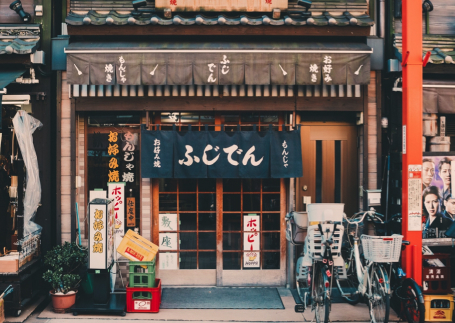
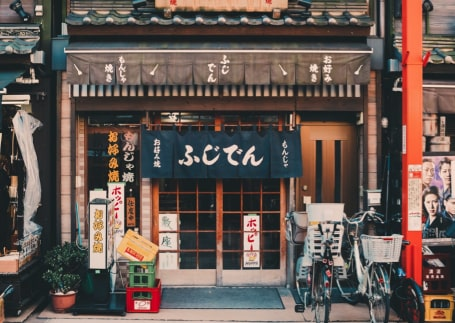
minimizing photo and adding  some JS

diff --git a/index.html b/index.html
@@ -4,6 +4,7 @@
     <meta charset="UTF-8">
     <meta name="viewport" content="width=device-width, initial-scale=1.0">
     <title>Discover Amazing places in Japan</title>
+    <meta name="description" content="">
     <link rel="stylesheet" href="./css/style.css">
 </head>
 <body>
@@ -13,23 +14,23 @@
             <div class="header__wrapper">
                 <div class="header__logo">
                     <a href="/" class="header__logo-link">
-                        <img src="./img/odigo-logo.svg" alt="Discover Amazing places in Japan" class="header__logo-pic">
+                        <img src="./img/svg/odigo-logo.svg" alt="Discover Amazing places in Japan" class="header__logo-pic">
                     </a>
                 </div>
 
                 <nav class="header__nav">
                     <ul class="header__list">
                         <li class="header__item">
-                            <a href="#!" class="header__link">Articles</a>
+                            <a href="#articles" class="header__link js-scroll">Articles</a>
                         </li>
                         <li class="header__item">
-                            <a href="#!" class="header__link">Locations</a>
+                            <a href="#locations" class="header__link js-scroll">Locations</a>
                         </li>
                         <li class="header__item">
-                            <a href="#!" class="header__link">Videos</a>
+                            <a href="#videos" class="header__link js-scroll">Videos</a>
                         </li>
                         <li class="header__item">
-                            <a href="#!" class="header__link">Sign in</a>
+                            <a href="#sign-in" class="header__link js-scroll">Sign in</a>
                         </li>
                     </ul>
                     
@@ -53,7 +54,7 @@
 
 <!--Intro start-->
     <main class="main">
-        <section class="intro">
+        <section class="intro" id='sign-in'>
             <div class="wrapper">
                 <h1 class="intro__title">Discover Amazing places in Japan</h1>
                 <p class="intro__subtitle">
@@ -79,7 +80,7 @@
                 <div class="benefits__cards">
                     <div class="benefits__card">
                         <div class="benafit__cards-pic">
-                            <img src="./img/church-icon.svg" alt="Welcome to Odigo!" class="benafits__card-thumb">
+                            <img src="./img/svg/church-icon.svg" alt="Welcome to Odigo!" class="benafits__card-thumb">
                         </div>
                         <h3 class="benafits__card-title">
                             Welcome to Odigo!
@@ -93,7 +94,7 @@
                     </div>
                     <div class="benefits__card">
                         <div class="benafit__cards-pic">
-                            <img src="./img/person-icon.svg" alt="Your Personal Japan Guide" class="benafits__card-thumb">
+                            <img src="./img/svg/person-icon.svg" alt="Your Personal Japan Guide" class="benafits__card-thumb">
                         </div>
                         <h3 class="benafits__card-title">
                             Your Personal Japan Guide
@@ -107,7 +108,7 @@
                     </div>
                     <div class="benefits__card">
                         <div class="benafit__cards-pic">
-                            <img src="./img/building-icon.svg" alt="Promoting Local Businesses" class="benafits__card-thumb">
+                            <img src="./img/svg/building-icon.svg" alt="Promoting Local Businesses" class="benafits__card-thumb">
                         </div>
                         <h3 class="benafits__card-title">
                             Promoting Local Businesses
@@ -181,7 +182,7 @@
     <!--Places end-->
 
     <!--Tours start-->
-        <div class="tours">
+        <div class="tours" id="articles">
             <div class="wrapper-full">
                 
                 <div class="tours__tour tour">
@@ -217,7 +218,7 @@
     <!--Tours end-->
     
     <!--Top start-->
-        <section class="top">
+        <section class="top" id='locations'>
             <div class="wrapper-full">
                 <h2 class="top__title section-title">
                     Today top places to visit
@@ -356,10 +357,10 @@
 
     <!--Videos start-->
 
-        <div class="videos">
+        <div class="videos" id='videos'>
             <div class="videos__wrapper">
                 <div class="video__item"></div>
-                <iframe class="video__element" src="https://www.youtube.com/embed/00ZXaXIABMY" frameborder="0" allow="accelerometer; autoplay; clipboard-write; encrypted-media; gyroscope; picture-in-picture" allowfullscreen></iframe>
+                <iframe class="video__element" src="https://www.youtube.com/embed/00ZXaXIABMY"  allow="accelerometer; autoplay; clipboard-write; encrypted-media; gyroscope; picture-in-picture" allowfullscreen></iframe>
             </div>
         </div>
     <!--Videos end-->
@@ -368,7 +369,7 @@
         <div class="wrapper">
             <div class="footer__item">
                 <div class="footer__logo">
-                    <img src="./img/odigo-logo-footer.svg" alt="Odigo" class="footer__logo-pic">
+                    <img src="./img/svg/odigo-logo-footer.svg" alt="Odigo" class="footer__logo-pic">
                 </div>
                 <nav class="footer__nav">
                     <ul class="footer__menu">

diff --git a/js/main.js b/js/main.js
@@ -11,10 +11,13 @@
     }
 }())
 
-(function(){
+//Burger handler
+(function () {
+
     const burgerItem = document.querySelector('.burger')
     const menu = document.querySelector('.header__nav')
     const menuCloseItem = document.querySelector('.header__nav-close')
+    const menuLinks = document.querySelectorAll('.header__link')
 
     burgerItem.addEventListener('click', () => {
         menu.classList.add('header__nav-active')
@@ -23,4 +26,50 @@
     menuCloseItem.addEventListener('click', () => {
         menu.classList.remove('header__nav-active')
     })
-}())
+    if(window.innerWidth <= 767) {
+        for(let i = 0; i < menuLinks.length; i+= 1){
+            menuLinks[i].addEventListener('click', () =>{
+                menu.classList.remove('header__nav-active')
+            })
+        }
+    }
+
+
+// Scroll to anchors
+    const smoothScroll = function (targetEl, duration) {
+        const headerElHeight =  document.querySelector('.header').clientHeight;
+        let target = document.querySelector(targetEl);
+        let targetPosition = target.getBoundingClientRect().top - headerElHeight;
+        let startPosition = window.pageYOffset;
+        let startTime = null;
+    
+        const ease = function(t,b,c,d) {
+            t /= d / 2;
+            if (t < 1) return c / 2 * t * t + b;
+            t--;
+            return -c / 2 * (t * (t - 2) - 1) + b;
+        };
+    
+        const animation = function(currentTime){
+            if (startTime === null) startTime = currentTime;
+            const timeElapsed = currentTime - startTime;
+            const run = ease(timeElapsed, startPosition, targetPosition, duration);
+            window.scrollTo(0,run);
+            if (timeElapsed < duration) requestAnimationFrame(animation);
+        };
+        requestAnimationFrame(animation);
+
+    };
+
+    const scrollTo = function () {
+        const links = document.querySelectorAll('.js-scroll');
+        links.forEach(each => {
+            each.addEventListener('click', function () {
+                const currentTarget = this.getAttribute('href');
+                smoothScroll(currentTarget, 1000);
+            });
+        });
+    };
+    scrollTo();
+
+}());

diff --git a/css/style.css b/css/style.css
@@ -521,7 +521,7 @@ body{
 
 .intro{
     min-height: 100vh;
-    background: url(../img/intro-bg.png) no-repeat center;
+    background: url(../img/intro-bg-min.png) no-repeat center;
     background-size: cover;
     padding-top: 263px;
     padding-bottom: 223px;
@@ -653,12 +653,12 @@ body{
     line-height: 24px;
     color: #006DFE;
     text-decoration: none;
-    background: url(../img/arrow-right-icon.svg) no-repeat 95% center;
+    background: url(../img/svg/arrow-right-icon.svg) no-repeat 95% center;
     transition: .2s all;
 }
 
 .benafits__card-more:hover, .benafits__card-more:focus{
-    background: url(../img/arrow-right-icon.svg) no-repeat right center;
+    background: url(../img/svg/arrow-right-icon.svg) no-repeat right center;
 }
 /*Benefits styles end*/
 
@@ -686,7 +686,7 @@ body{
     color: #006DFE;
     text-decoration: none;
     padding-right: 59px;
-    background: url(../img/arrow-right-icon.svg) no-repeat right center;
+    background: url(../img/svg/arrow-right-icon.svg) no-repeat right center;
 }
 
 .places__view-all:hover, .places__view-all:focus{
@@ -696,7 +696,7 @@ body{
 .places__cards{
     display: grid;
     grid-template-columns: repeat(6, 1fr);
-    grid-gap: 10px;
+    gap: 10px;
 }
 
 .places__card{
@@ -774,7 +774,7 @@ body{
 .tours__tour {
     display: grid;
     grid-template-columns: repeat(2, 1fr);
-    grid-gap: 0 108px;
+    gap: 0 108px;
     align-items: center;
     margin-bottom: 77px;
 }
@@ -824,7 +824,7 @@ body{
 .top__cards{
     display: grid;
     grid-template-columns: repeat(6, 1fr);
-    grid-gap: 57px;
+    gap: 57px;
 }
 
 .top__card{
@@ -1002,7 +1002,7 @@ body{
         margin-bottom: 15px;
     }
     .tours__tour{
-        grid-gap: 0 35px;
+        gap: 0 35px;
     }
     .tour__desc{
         margin-bottom: 15px;
@@ -1111,7 +1111,7 @@ body{
     }
     .search-form__field{
         font-size: 14px;
-        background: transparent url(../img/circle-icon.svg) no-repeat left 2px;
+        background: transparent url(../img/svg/circle-icon.svg) no-repeat left 2px;
     }
     .search-form__submit{
         width: 100%;
